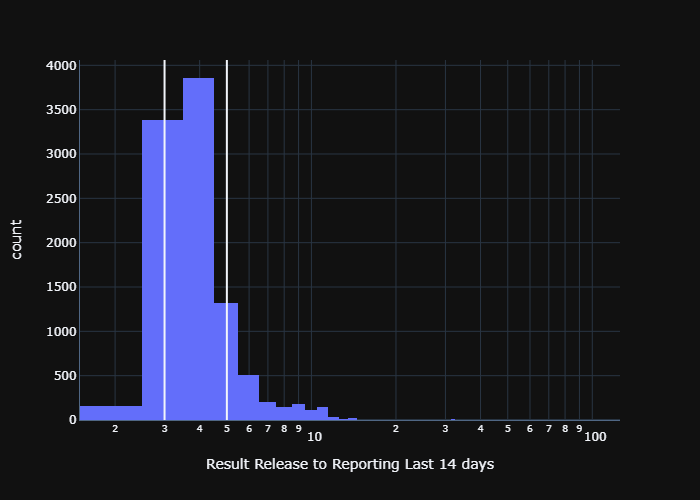
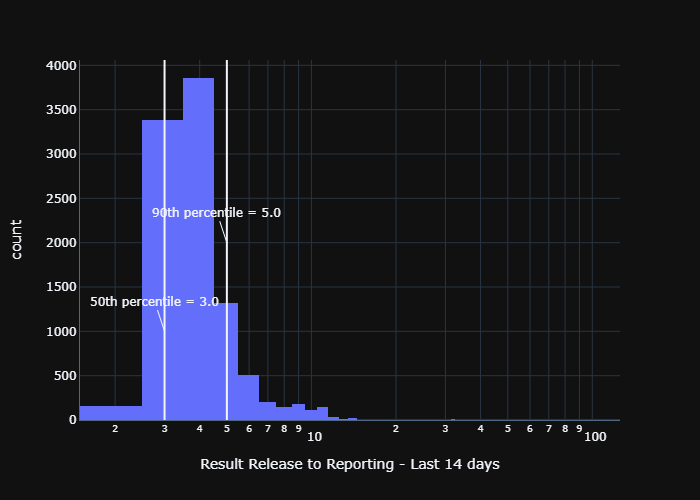
Added testing and separated last 14 days.

Changed region(s): [[0.27, 0.9, 0.72, 0.96], [0.21, 0.42, 0.42, 0.45], [0.12, 0.6, 0.33, 0.63]]

diff --git a/COVID-19-PH/COVID-19-Tracker-PH.md b/COVID-19-PH/COVID-19-Tracker-PH.md
@@ -6,16 +6,14 @@ Disclaimer: I am not affiliated with DOH or any government agency. This is my ow
 
 Update script: [COVID-19-Tracker-PH@GitHub](https://github.com/donfiguerres/COVID-19-Tracker-PH)
 
+## Links
+
+[Last 14 Days](Last-14-Days.md)
+
+## Testing
+![test_daily_output_positive_individuals](images/test_daily_output_positive_individuals.png)
+
 ## Reporting
-
-### Last 14 Days
-![SpecimenToRelease14days](images/SpecimenToRelease14days.png)
-
-![ReleaseToRepConf14days](images/ReleaseToRepConf14days.png)
-
-![SpecimenToRepConf14days](images/SpecimenToRepConf14days.png)
-
-### Overall
 ![SpecimenToRelease](images/SpecimenToRelease.png)
 
 ![ReleaseToRepConf](images/ReleaseToRepConf.png)

diff --git a/COVID-19-PH/Last-14-Days.md b/COVID-19-PH/Last-14-Days.md
@@ -1,0 +1,15 @@
+# COVID-19 Tracker Philippines
+
+[main page](COVID-19-Tracker-PH.md)
+
+## Last 14 Days
+
+# Testing
+![test_daily_output_positive_individuals](images/test_daily_output_positive_individuals14days.png)
+
+# Reporting
+![SpecimenToRelease14days](images/SpecimenToRelease14days.png)
+
+![ReleaseToRepConf14days](images/ReleaseToRepConf14days.png)
+
+![SpecimenToRepConf14days](images/SpecimenToRepConf14days.png)
